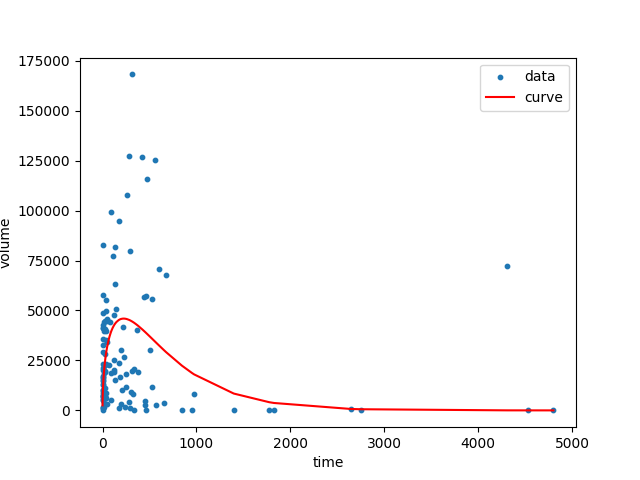
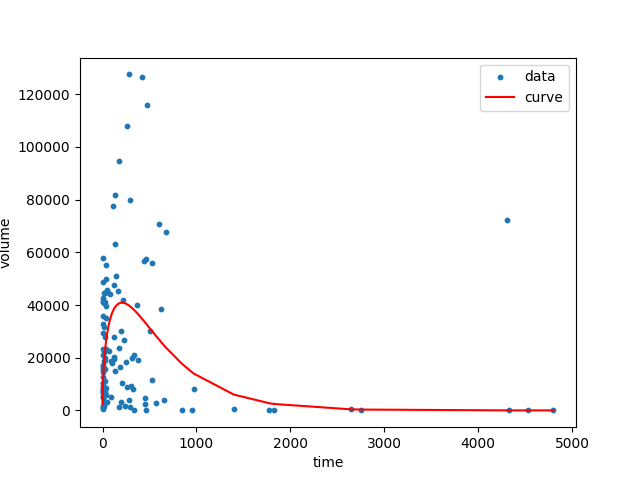
3b

diff --git a/fit2b.py b/fit2b.py
@@ -12,19 +12,21 @@ from utils import ROOT
 
 parser = argparse.ArgumentParser()
 parser.add_argument('--mode', default='ED', type=str, help='Hemo or ED')
+parser.add_argument('-q', default='2b', type=str, help='2b or 3b')
 opt = parser.parse_args()
 
 MODE = opt.mode
+question = opt.q
 
 DATA_DIR_PATH = ROOT / 'data'
-OUTPUT_DIR = ROOT / f'logs/2b'
+OUTPUT_DIR = ROOT / f'logs/{question}'
 
 CLUSTERS = 5
 
 
 # y = a * x^(1/2) * e^(-bx)
 def func(x, _a, _b):
-    # return _a * x ** 3 + _b * x ** 2
+
     return _a * np.sqrt(x) * pow(np.e, -_b * x)
 
 
@@ -127,7 +129,7 @@ def group_data(x_data, y_data, labels):
 
 def average_kmeans(samples):
 
-    kmeans = KMeans(n_clusters=CLUSTERS, init='k-means++', random_state=0)
+    kmeans = KMeans(n_clusters=CLUSTERS, n_init='auto', init='k-means++', random_state=0)
 
     distance_matrix = []
 
@@ -154,10 +156,10 @@ def average_kmeans(samples):
 
     # 25 curves per group
 
-    max_iterations = 200
+    max_iterations = 4000
     desired_cluster_size = len(samples) / CLUSTERS
 
-    for iter in range(max_iterations):
+    for iter in tqdm(range(max_iterations)):
 
         kmeans.fit(distance_matrix)
 
@@ -202,7 +204,7 @@ def curve_similarity(params1, params2):
 
 if __name__ == '__main__':
 
-    x_data, y_data = get_data(DATA_DIR_PATH / f'2b{MODE}.xlsx')
+    x_data, y_data = get_data(DATA_DIR_PATH / f'{question}{MODE}.xlsx')
 
     samples = []
     # fit
@@ -223,6 +225,12 @@ if __name__ == '__main__':
 
     grouped_x_data, grouped_y_data = group_data(x_data, y_data, labels)
 
+    if not os.path.exists(OUTPUT_DIR.parent):
+        os.mkdir(OUTPUT_DIR.parent)
+
+    if not os.path.exists(OUTPUT_DIR):
+        os.mkdir(OUTPUT_DIR)
+
     grouped_params = []
 
     for i in range(len(grouped_x_data)):
@@ -239,7 +247,7 @@ if __name__ == '__main__':
         plt.xlabel("time")
         plt.ylabel("volume")
         plt.legend()
-        plt.savefig(OUTPUT_DIR / f'2b{MODE}{i}.png')
+        plt.savefig(OUTPUT_DIR / f'{question}{MODE}{i}.png')
         plt.clf()
         # plt.show()
 
@@ -263,12 +271,6 @@ if __name__ == '__main__':
 
         samples[i]['residual'] = total_residual
 
-    if not os.path.exists(OUTPUT_DIR.parent):
-        os.mkdir(OUTPUT_DIR.parent)
-
-    if not os.path.exists(OUTPUT_DIR):
-        os.mkdir(OUTPUT_DIR)
-
     keys = list(samples[0].keys())
     output_table = pd.DataFrame([[sample[key] for key in keys] for sample in samples], columns=keys)
-    output_table.to_excel(OUTPUT_DIR / f'2b{MODE}result.xlsx', index=False)
+    output_table.to_excel(OUTPUT_DIR / f'{question}{MODE}result.xlsx', index=False)

diff --git a/processors/processor2b.py b/processors/processor2b.py
@@ -4,15 +4,16 @@ import pandas as pd
 
 from utils import ROOT
 
-
 parser = argparse.ArgumentParser()
 parser.add_argument('--mode', default='ED', type=str, help='Hemo or ED')
+parser.add_argument('-q', default='2b', type=str, help='2b or 3b')
 opt = parser.parse_args()
 
 MODE = opt.mode
+question = opt.q
 
 DATA_DIR_PATH = ROOT / 'data'
-OUTPUT_PATH = DATA_DIR_PATH / f'2b{MODE}.xlsx'
+OUTPUT_PATH = DATA_DIR_PATH / f'{question}{MODE}.xlsx'
 
 HEMO_VOLUME_COLS = [2, 25, 48, 71, 94, 117, 140, 163, 186]
 ED_VOLUME_COLS = [13, 36, 59, 82, 105, 128, 151, 174, 197]
@@ -22,39 +23,40 @@ table_first = pd.read_excel(
     sheet_name='患者信息',
     header=0,
     usecols=[0, 14],
-    nrows=100
 )
+table_first.drop(range(100, 160 if question == '2b' else 130), inplace=True)
 
 table_serial = pd.read_excel(
     DATA_DIR_PATH / '表2-患者影像信息血肿及水肿的体积及位置.xlsx',
     sheet_name='Data',
     header=0,
     usecols=[1, 24, 47, 70, 93, 116, 139, 162, 185],
-    nrows=100
 )
+table_serial.drop(range(100, 160 if question == '2b' else 130), inplace=True)
 
 table_volume = pd.read_excel(
     DATA_DIR_PATH / '表2-患者影像信息血肿及水肿的体积及位置.xlsx',
     sheet_name='Data',
     header=0,
     usecols=HEMO_VOLUME_COLS if MODE == 'Hemo' else ED_VOLUME_COLS,
-    nrows=100
 )
+table_volume.drop(range(100, 160 if question == '2b' else 130), inplace=True)
 
 table_timestamp = pd.read_excel(
     DATA_DIR_PATH / '附表1-检索表格-流水号vs时间.xlsx',
     sheet_name='Sheet1',
     header=0,
     usecols=[2, 4, 6, 8, 10, 12, 14, 16, 18],
-    nrows=100
 )
+table_timestamp.drop(range(100, 160 if question == '2b' else 130), inplace=True)
 
 # [{sub_id, serial, interval, volume}]
 samples = []
 header = ['sub_id']
 
-for i, row in table_serial.iterrows():
+for i in range(table_serial.shape[0]):
 
+    row = table_serial.iloc[i]
     sub_id = str(table_first.iloc[i, 0])
     first_interval = float(table_first.iloc[i, 1])
     first_timestamp = table_timestamp.iloc[i, 0]
